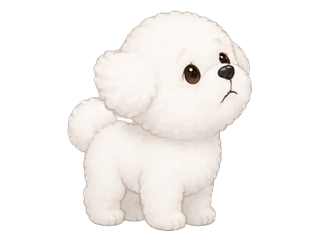
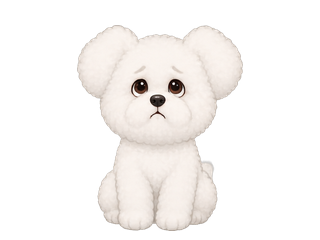
assets: new pant (sitting), alert (front-on), walk (sniffing) poses to separate silhouettes; CI path filter includes Resources/**

diff --git a/Resources/DogArt/PROVENANCE.md b/Resources/DogArt/PROVENANCE.md
@@ -20,7 +20,18 @@ trotting briskly with legs mid-stride, sprinting at full speed with ears blown b
 panting hard with open mouth, long tongue out and one small blue sweat drop, standing alert with ears lifted and head
 tilted looking worried. No shadows, floor, text, frame numbers, grid lines, motion trails, speed lines, glow or detached particles.
 
-## Prompt (pose walk)
+## Replacement poses (second pass, 2026-10-12)
+
+The first versions of pant, alert and walk shared the stand silhouette. The gate BD (pairwise silhouette difference at
+72 x 54 pt) failed for 4 pairs. These 3 files were generated again with one `edit` call (same reference, transparent
+background, 4 poses in one row) and replace the first versions.
+
+Prompt: same dog and style rules as above. Poses: sitting upright on its haunches with head tilted up, mouth wide open,
+long tongue hanging out, one small blue sweat drop (used for `dog_pant.png`); sitting facing the viewer front-on with both
+ears lifted, worried wide eyes, looking up (used for `dog_alert.png`); walking slowly with head lowered sniffing the ground,
+facing right (used for `dog_walk.png`, scaled to 0.80 of the stand height). A fourth pose (play bow) is not used.
+
+## Prompt (first version of pose walk, replaced)
 
 Same dog, 3 separated poses in one row, relaxed slow walk with one front paw lifted, mouth closed, happy eyes,
 tail curled up. The middle pose is used.
